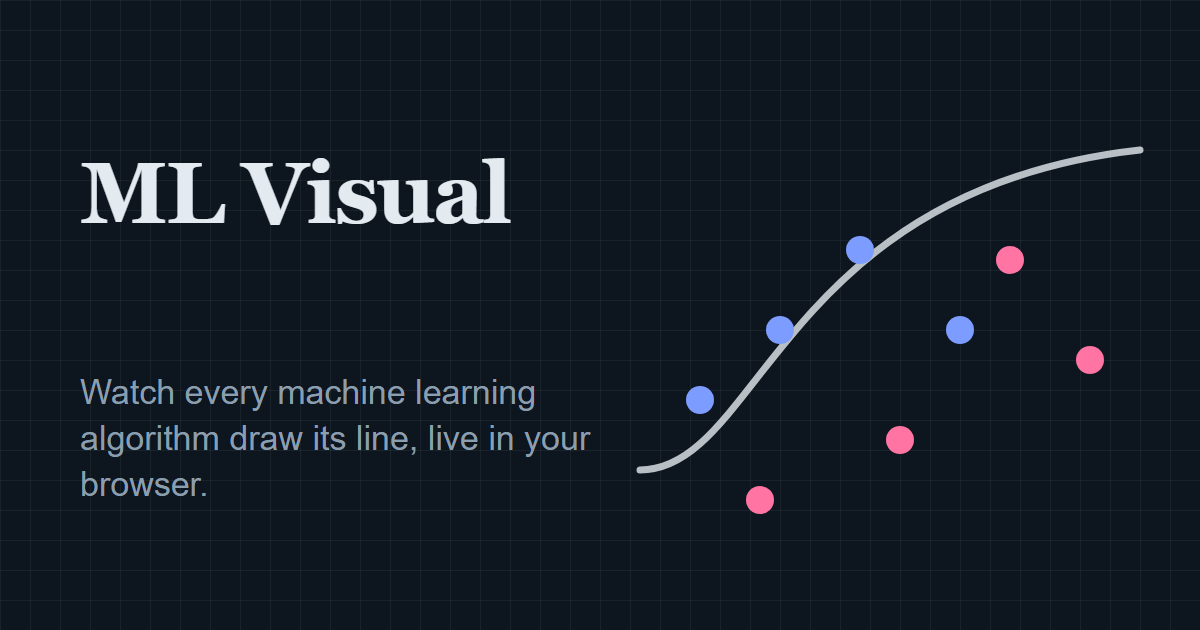
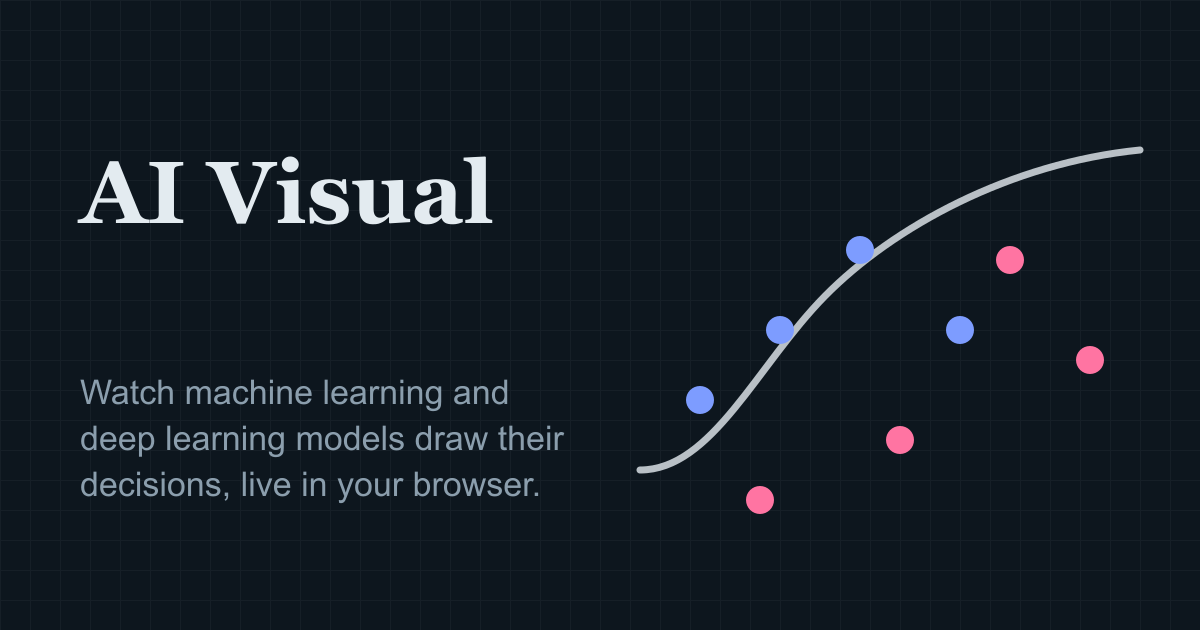
Rename the site to AI Visual
The course now covers deep learning as well as machine learning. The name changes in
the UI (both languages), page titles, social metadata, the install manifest, docs and
notebooks; repo name and URLs stay ML_DL_Vis. New scripts/og.mjs regenerates the social
preview (public/og.png). README banners and screenshots still show the old name and
need retaking from the live site. By Codex (gpt-6.2-sol, high); reviewed by Claude.

diff --git a/src/i18n/ui.ts b/src/i18n/ui.ts
@@ -44,7 +44,7 @@ export const learn = {
 
 export const common = {
   en: {
-    brand: 'ML Visual', nav_course: 'Course', nav_pick: 'Pick an algorithm', nav_compare: 'Compare',
+    brand: 'AI Visual', nav_course: 'Course', nav_pick: 'Pick an algorithm', nav_compare: 'Compare',
     m_knn: 'K-Nearest Neighbors', m_logistic: 'Logistic Regression', m_svm: 'Support Vector Machine', m_ksvm: 'Kernel SVM',
     m_nb: 'Naive Bayes', m_tree: 'Decision Tree', m_forest: 'Random Forest',
     s_knn: 'blobs that hug the data', s_logistic: 'one straight line', s_svm: 'the widest straight gap', s_ksvm: 'smooth curves and islands',
@@ -70,13 +70,13 @@ export const common = {
     hint_tap: 'Tap to add a point. Pick the class with the buttons. Touch and hold to see what the model predicts.',
     goal: 'Goal', goal_test: 'Test score of at least {t}%', win: 'Goal reached. Nice work.', win_before: 'You reached this goal before.',
     copyright: '© 2026 Mohammad Ismael Al-Qatameen. All rights reserved.',
-    site_desc: 'Learn machine learning by watching real models fit your data live. Interactive lessons, English and Arabic, with Google Colab notebooks.',
+    site_desc: 'Learn machine learning and deep learning with AI Visual. Watch models fit your data live in English and Arabic lessons with Google Colab notebooks.',
     nf_h: 'This page is not here', nf_p: 'The link may be old or mistyped. Try the home page or the course route.', nf_home: 'Go to the home page', skip: 'Skip to content',
     undo: 'Undo', full: 'Full screen', full_exit: 'Exit full screen', close: 'Close', data_more: 'Data',
     flip: 'Adding {c}. Tap to switch class.', tip_dock: 'Tap the board to add a point. The bar at the bottom holds the setting, the class and the data.',
   },
   ar: {
-    brand: 'ML Visual', nav_course: 'الدورة', nav_pick: 'اختر خوارزمية', nav_compare: 'قارن',
+    brand: 'AI Visual', nav_course: 'الدورة', nav_pick: 'اختر خوارزمية', nav_compare: 'قارن',
     m_knn: 'أقرب الجيران (K-NN)', m_logistic: 'الانحدار اللوجستي', m_svm: 'آلة المتجهات الداعمة', m_ksvm: 'SVM بالنواة',
     m_nb: 'بايز الساذج', m_tree: 'شجرة القرار', m_forest: 'الغابة العشوائية',
     s_knn: 'مناطق تلتف حول البيانات', s_logistic: 'خط مستقيم واحد', s_svm: 'أعرض فجوة مستقيمة', s_ksvm: 'منحنيات ناعمة وجزر',
@@ -102,7 +102,7 @@ export const common = {
     hint_tap: 'المس لإضافة نقطة. اختر الصنف من الأزرار. المس مطوّلًا لترى ما يتوقّعه النموذج.',
     goal: 'الهدف', goal_test: 'درجة اختبار لا تقل عن {t}%', win: 'تحقّق الهدف. أحسنت.', win_before: 'سبق أن حققت هذا الهدف.',
     copyright: '© 2026 محمد إسماعيل القطامين. جميع الحقوق محفوظة.',
-    site_desc: 'تعلّم تعلّم الآلة بمشاهدة نماذج حقيقية تتكيّف مع بياناتك مباشرة. دروس تفاعلية بالإنجليزية والعربية، مع دفاتر Google Colab.',
+    site_desc: 'تعلّم تعلّم الآلة والتعلّم العميق مع AI Visual. شاهد النماذج تتدرّب على بياناتك مباشرة في دروس بالإنجليزية والعربية، مع دفاتر Google Colab.',
     nf_h: 'هذه الصفحة غير موجودة', nf_p: 'قد يكون الرابط قديمًا أو مكتوبًا بخطأ. جرّب الصفحة الرئيسية أو مسار الدورة.', nf_home: 'اذهب إلى الصفحة الرئيسية', skip: 'تخطَّ إلى المحتوى',
     undo: 'تراجع', full: 'ملء الشاشة', full_exit: 'الخروج من ملء الشاشة', close: 'إغلاق', data_more: 'البيانات',
     flip: 'تضيف الآن: {c}. المس للتبديل بين الصنفين.', tip_dock: 'المس اللوحة لإضافة نقطة. الشريط في الأسفل فيه الإعداد والصنف والبيانات.',

diff --git a/src/styles/theme.css b/src/styles/theme.css
@@ -1,4 +1,4 @@
-/* ML Visual — design tokens + shared components, ported from sketches/shared/theme.css (the approved spec).
+/* AI Visual — design tokens + shared components, ported from sketches/shared/theme.css (the approved spec).
    Identity: engineering graph paper + plotting ink. Two data inks (cobalt, raspberry), one highlighter.
    Signature: the decision boundary itself — every algorithm is shown by the line it draws. */
 

diff --git a/datasets/make_cafe_reviews.py b/datasets/make_cafe_reviews.py
@@ -1,7 +1,7 @@
 """Generate datasets/cafe_reviews.csv: short fictional reviews of an imaginary café.
 
 Every review is built from original templates and word lists below, so the dataset is
-original to ML Visual (CC0). Sentiment words repeat across many reviews, as they do in real
+original to AI Visual (CC0). Sentiment words repeat across many reviews, as they do in real
 reviews, so a bag-of-words model has something to learn. About 6% of labels come from
 mixed reviews ("great coffee but rude staff"), which keeps the task from being trivial.
 

diff --git a/datasets/README.md b/datasets/README.md
@@ -76,7 +76,7 @@ on the Compare page serve them. Keep the copies in sync if you change the origin
 | Used by | `notebooks/4-clustering/*.ipynb` |
 | Rows | 30 synthetic points, 10 drawn around each of three centres |
 | Columns | `x`, `y` (coordinates on the same scale; no group labels) |
-| Source | Original to ML Visual. Generated in JavaScript with a Park–Miller generator (seed 2026) and Box–Muller normal draws (standard deviation 0.045) around `(0.21, 0.29)`, `(0.75, 0.28)`, and `(0.51, 0.74)`. Rounded to five decimals and shuffled with the same generator. |
+| Source | Original to AI Visual. Generated in JavaScript with a Park–Miller generator (seed 2026) and Box–Muller normal draws (standard deviation 0.045) around `(0.21, 0.29)`, `(0.75, 0.28)`, and `(0.51, 0.74)`. Rounded to five decimals and shuffled with the same generator. |
 | License | CC0 1.0 (public domain dedication) |
 
 ## `grocery_baskets.csv`
@@ -86,7 +86,7 @@ on the Compare page serve them. Keep the copies in sync if you change the origin
 | Used by | `notebooks/5-rules/*.ipynb` |
 | Rows | 500 synthetic shopping baskets, no header |
 | Columns | One item per field, with a variable number of comma-separated fields per row |
-| Source | Original to ML Visual. The [NumPy generator](generate_grocery_baskets.py) uses seed 0 and plants cereal with milk, bread with eggs, and pasta with sauce and cheese, alongside background purchases. |
+| Source | Original to AI Visual. The [NumPy generator](generate_grocery_baskets.py) uses seed 0 and plants cereal with milk, bread with eggs, and pasta with sauce and cheese, alongside background purchases. |
 | License | CC0 1.0 (public domain dedication) |
 
 ## `ad_clicks.csv`
@@ -96,7 +96,7 @@ on the Compare page serve them. Keep the copies in sync if you change the origin
 | Used by | `notebooks/6-rl/*.ipynb` |
 | Rows | 10,000 simulated rounds, with independent Bernoulli outcomes |
 | Columns | `ad_1` through `ad_5`: `1` for a click, `0` otherwise. A policy may read only the cell for the ad it chose on that round. |
-| Source | Original to ML Visual. Generated with NumPy using `np.random.default_rng(2026).random((10_000, 5)) < [0.12, 0.31, 0.75, 0.47, 0.24]`. The hidden rates, in column order, are 12%, 31%, 75%, 47%, and 24%. |
+| Source | Original to AI Visual. Generated with NumPy using `np.random.default_rng(2026).random((10_000, 5)) < [0.12, 0.31, 0.75, 0.47, 0.24]`. The hidden rates, in column order, are 12%, 31%, 75%, 47%, and 24%. |
 | License | CC0 1.0 (public domain dedication) |
 
 ## `cafe_reviews.csv`
@@ -106,7 +106,7 @@ on the Compare page serve them. Keep the copies in sync if you change the origin
 | Used by | `notebooks/7-nlp/*.ipynb` and the Part 7 browser demos |
 | Rows | 800 fictional English reviews, roughly half per class |
 | Columns | `review` (text), `liked` (1 = liked it, 0 = did not) |
-| Source | Original to ML Visual: generated by [`make_cafe_reviews.py`](make_cafe_reviews.py) (seed 2026) from its own templates and word lists about an imaginary café; no real customer reviews. About 6% are mixed reviews ("great coffee but rude staff"). The site bundles half of the rows at build time. |
+| Source | Original to AI Visual: generated by [`make_cafe_reviews.py`](make_cafe_reviews.py) (seed 2026) from its own templates and word lists about an imaginary café; no real customer reviews. About 6% are mixed reviews ("great coffee but rude staff"). The site bundles half of the rows at build time. |
 | License | CC0 1.0 (public domain dedication) |
 
 ## MNIST

diff --git a/README.md b/README.md
@@ -1,9 +1,11 @@
+# AI Visual
+
 <div align="center">
 
 <a href="https://mohammad-qt.github.io/ML_DL_Vis/">
   <picture>
     <source media="(prefers-color-scheme: light)" srcset="docs/banner-light.png">
-    <img src="docs/banner-dark.png" alt="ML Visual: every algorithm draws a different line" width="100%">
+    <img src="docs/banner-dark.png" alt="AI Visual: every algorithm draws a different line" width="100%">
   </picture>
 </a>
 
@@ -23,7 +25,7 @@
   <img src="docs/img/hero.gif" alt="The same points redrawn by K-NN, logistic regression, SVM, kernel SVM, Naive Bayes, a decision tree and a random forest" width="460">
 </p>
 
-ML Visual is a free course in machine learning for beginners, in English and Arabic. Every lesson has a live board.
+AI Visual is a free course in machine learning and deep learning for beginners, in English and Arabic. Every lesson has a live board.
 The models train in your browser and redraw their decision line the moment you add a point or move a setting.
 There is nothing to install. When you want the code, each lesson opens its own notebook in Google Colab.
 
@@ -127,6 +129,8 @@ npm run dev      # http://localhost:4321/ML_DL_Vis/
 npm test         # model and lesson tests
 npm run build    # static site in dist/
 ```
+
+Run `node scripts/og.mjs` to regenerate the social preview at [`public/og.png`](public/og.png).
 
 ## Tech
 

diff --git a/REVIEW.md b/REVIEW.md
@@ -35,13 +35,14 @@ Nothing here needs a developer: edit the file named in the table and save. Arabi
 
 Shared text on every page (top bar, footer, model names, board hints, score labels, "Open in Colab"):
 `src/i18n/ui.ts` (`common`, `lesson`, `prep`, `sel`, each with `en` and `ar`).
-Page titles and descriptions come from each lesson's `short` / `lede` fields, and from `page_title` / `lede` for Home and Compare.
-Site-wide fallback description: `site_desc` in `src/i18n/ui.ts`.
+Lesson page titles and descriptions come from `short` and `lede`. Home and Compare use `page_title` for their titles.
+Compare uses `lede` for its description. Home and pages without a custom description use `site_desc` in `src/i18n/ui.ts`.
+
+The brand is **AI Visual** in Latin letters in both languages.
 
 ## Confirm first
 
 - **Your name in Arabic**: محمد إسماعيل القطامين (footer on every page). Please confirm the spelling.
-- **Brand**: the Arabic site shows "ML Visual" in Latin letters. Keep, or add an Arabic name?
 - **Copyright wording** in both languages (`common.*.copyright`).
 
 ## Arabic passages I'm unsure about

diff --git a/CHANGELOG.md b/CHANGELOG.md
@@ -1,8 +1,10 @@
-# What's new in ML Visual
+# What's new in AI Visual
 
 Every change that learners can see, newest first. Each entry links to the pull request with the full details.
 
 ## 26 November 2026
+
+The site is now called **AI Visual**, since it covers deep learning as well as machine learning.
 
 **A new Learn step: less reading, more watching.** ([#24](https://github.com/Mohammad-QT/ML_DL_Vis/pull/24) and the scenes PR)
 

diff --git a/PLAN.md b/PLAN.md
@@ -1,4 +1,4 @@
-# ML Visual — build plan
+# AI Visual — build plan
 
 An interactive, bilingual (English default, Arabic RTL) site that teaches the Machine Learning A-Z
 syllabus (Python only) by letting beginners watch models draw their decision lines live in the browser.

diff --git a/CLAUDE.md b/CLAUDE.md
@@ -1,4 +1,4 @@
-# ML Visual — working notes for Claude
+# AI Visual — working notes for Claude
 
 Read `PLAN.md` first: it holds every settled decision, the stack, the site map and the milestones.
 
